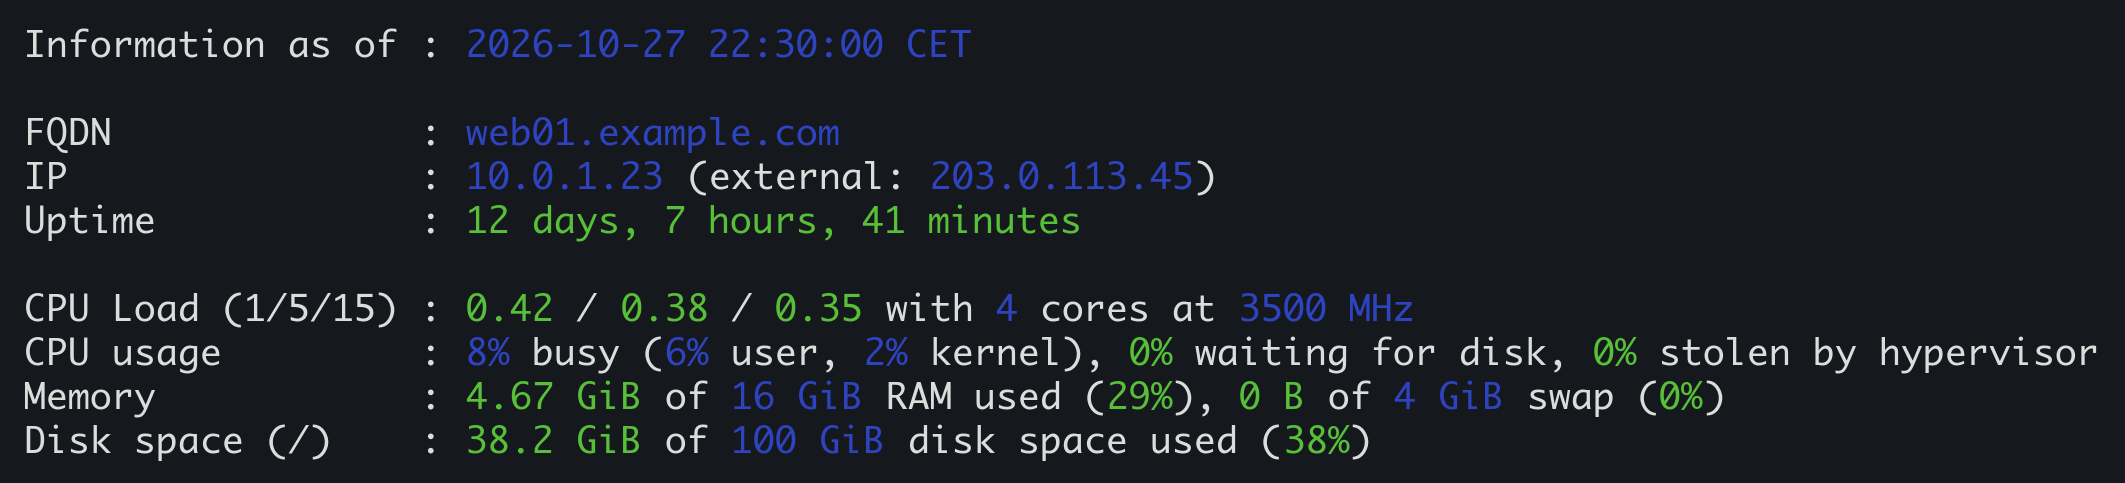
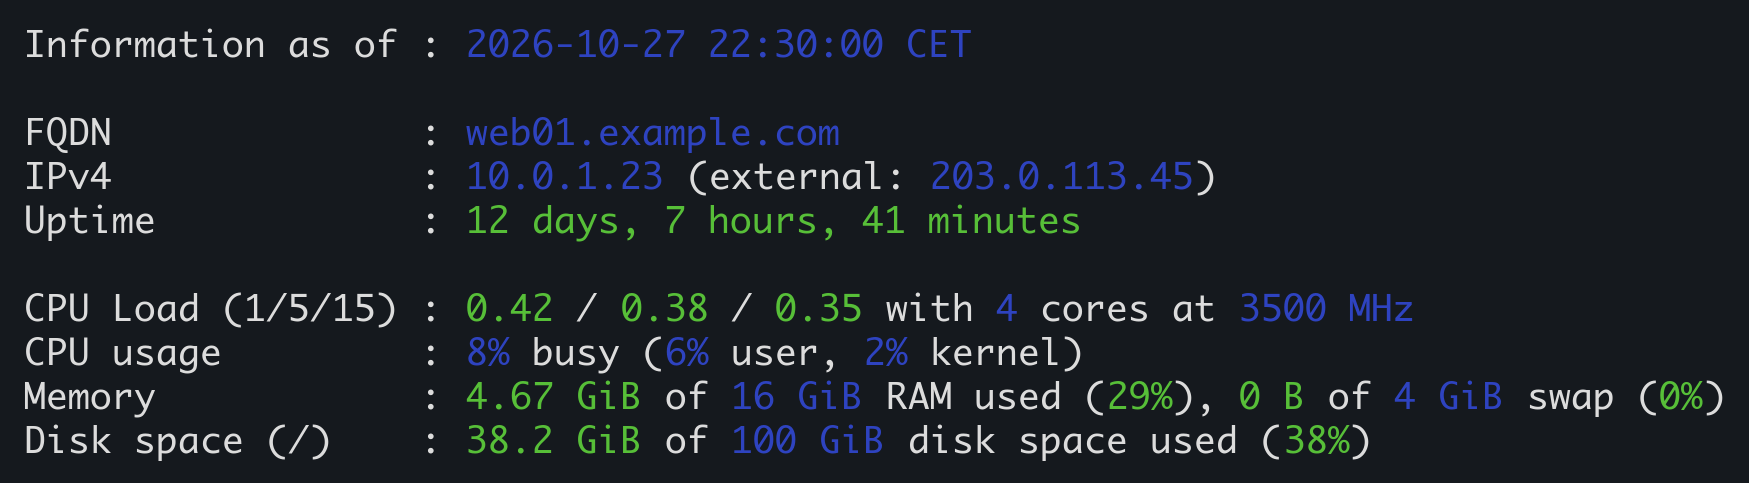
Update the screenshots

diff --git a/README.md b/README.md
@@ -11,7 +11,7 @@ it, then something IS wrong with the server, isn't it?).
 
 When all is good, it shows the basic info about your server:
 
-<img src="https://raw.githubusercontent.com/gdubicki/dynamotd/main/screenshot-all-good.png" width="923px" alt="screenshot of a server without problems">
+<img src="https://raw.githubusercontent.com/gdubicki/dynamotd/main/screenshot-all-good.png" width="760px" alt="screenshot of a server without problems">
 
 When there are problems, they are shown in yellow and red, and some rows appear only then:
 
